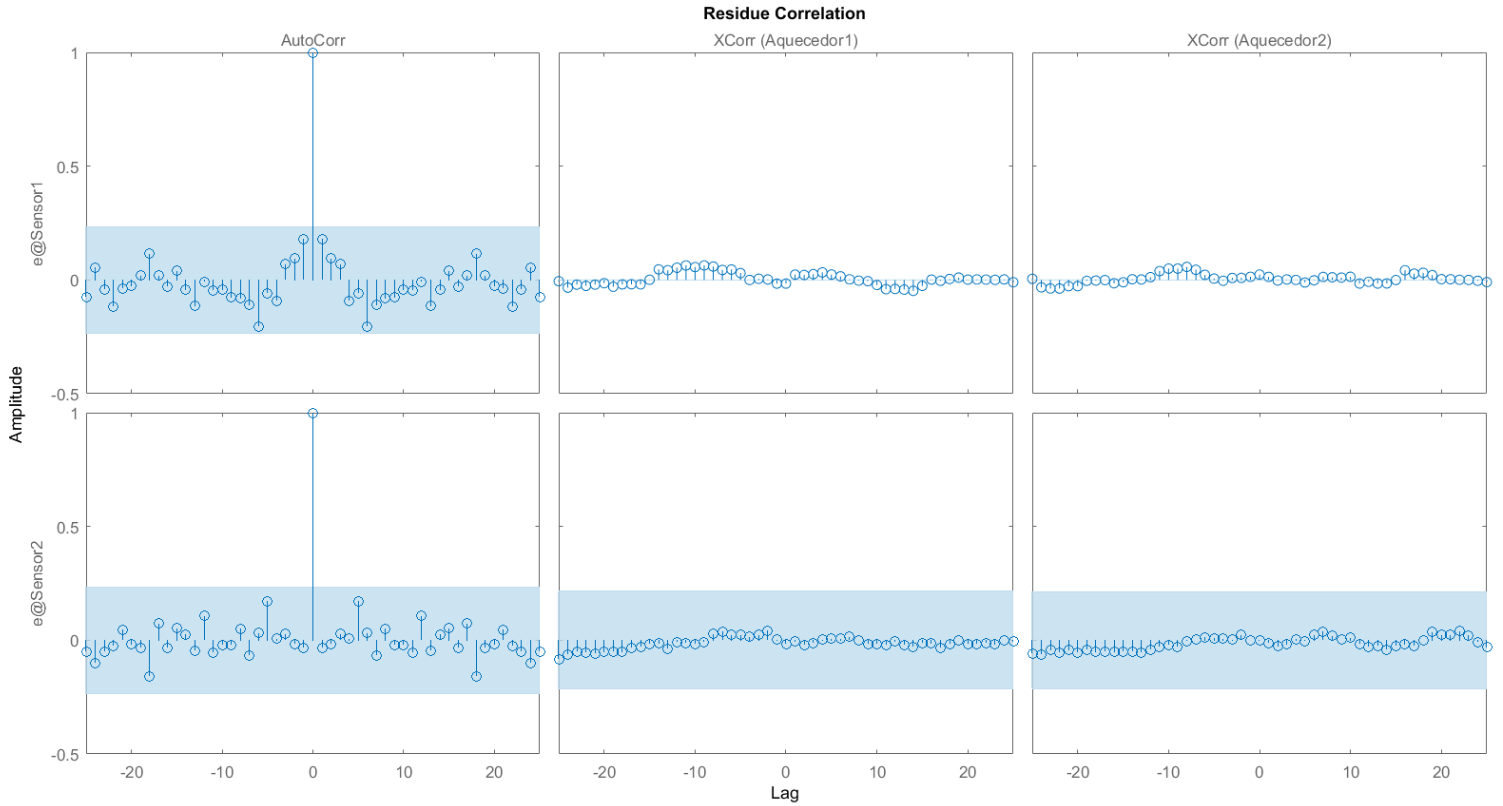
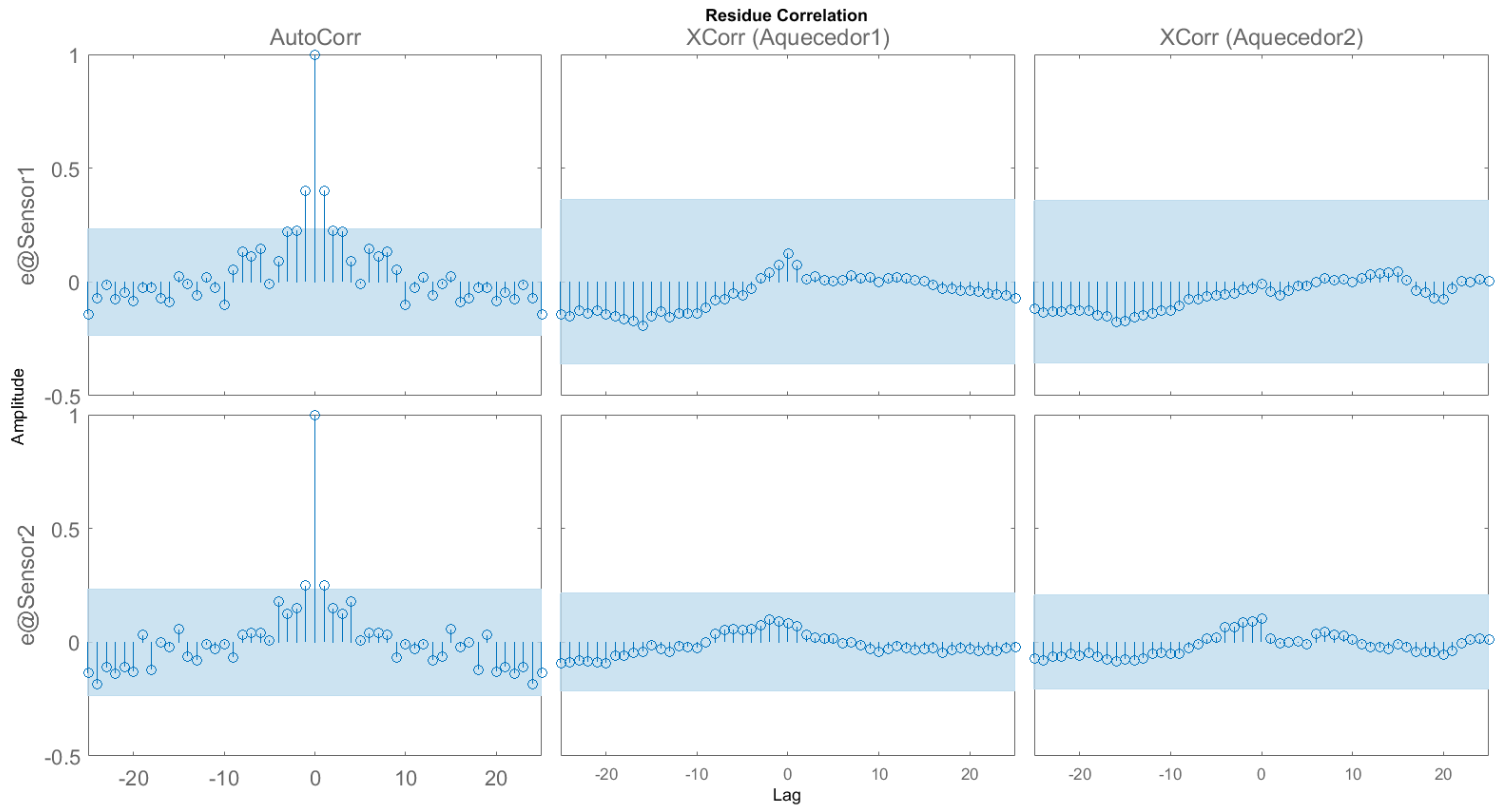
Modelos exp OE atualizados

diff --git a/2_content/metodos.tex b/2_content/metodos.tex
@@ -846,17 +846,13 @@ ordens do polinômio F ($n_f$) e de tempo morto ($n_k$). As combinações utiliz
 							$ \begin{bmatrix}	3	&	3	\\	3	&	3	\\	\end{bmatrix} $	,		
 							$ \begin{bmatrix}	4	&	4	\\	4	&	4	\\	\end{bmatrix} $		\\ \midrule
 		$n_k$			&
-							$ \begin{bmatrix}	0	&	0	\\	0	&	0	\\	\end{bmatrix} $	,		
-							$ \begin{bmatrix}	1	&	1	\\	1	&	1	\\	\end{bmatrix} $	,		
-							$ \begin{bmatrix}	2	&	2	\\	2	&	2	\\	\end{bmatrix} $	,		
-							$ \begin{bmatrix}	3	&	3	\\	3	&	3	\\	\end{bmatrix} $	,		
-							$ \begin{bmatrix}	4	&	4	\\	4	&	4	\\	\end{bmatrix} $		\\ \bottomrule
+							$ \begin{bmatrix}	1	&	1	\\	1	&	1	\\	\end{bmatrix} $		\\ \bottomrule
 	\end{tabular}
 	\caption*{Fonte: Autor}
 \end{table}
 
-A partir de todos os modelos possíveis gerados a partir das combinações dos parâmetros da \cref{tab:tclabsp-models-oe},
-selecionaram-se os 10 modelos com menor valor segundo o critério de \acrshort{aic} e a partir destes foi então
+A partir de todos os modelos gerados a partir das combinações dos parâmetros da \cref{tab:tclabsp-models-oe},
+ordenaram-se os modelos com menor valor segundo o critério de \acrshort{aic} e a partir destes foi então
 selecionado o modelo com menor valor residual.
 O gráfico mostrando a distribuição dos modelos gerados em comparação ao critério de \acrshort{aic} pode ser
 visto na \cref{fig:tclabsp-models-oe} e o modelo \acrshort{oe} escolhido, seu gráfico comparativo aos dados validação
@@ -882,26 +878,26 @@ e sua análise residual podem ser vistos na \cref{tab:tclabsp-model-oe}, na \cre
 		$Sensor_1$			&
 								$ 
 									\begin{aligned}
-										\text{Formato:}																	\\
-										y_1(t) &= \frac{B(z)}{F(z)}u(t) + e_1(t)										\\
-										\text{Onde:}																	\\
-										B1(z) &= 0.04087 + 0.03768 z^{-1} - 0.04261 z^{-2} - 0.03345 z^{-3}    			\\
-										B2(z) &= 0.00337 - 0.006235 z^{-1} + 0.01075 z^{-2} - 0.007678 z^{-3}  			\\
-										F1(z) &= 1 - 1.348 z^{-1} - 0.2736 z^{-2} + 0.7902 z^{-3} - 0.1655 z^{-4}		\\
-										F2(z) &= 1 - 1.764 z^{-1} + 0.3168 z^{-2} + 0.741 z^{-3} - 0.2937 z^{-4}   
+										\text{Formato:}														\\
+										y_1(t) &= \frac{B(z)}{F(z)}u(t) + e_1(t)							\\
+										\text{Onde:}														\\
+										B1(z) &= 0.08894 z^{-1} + 0.04175 z^{-2} - 0.09187 z^{-3}   		\\
+										B2(z) &= 0.008258 z^{-1} + 0.001846 z^{-2} - 0.01011 z^{-3} 		\\
+										F1(z) &= 1 - 0.912 z^{-1} - 0.5633 z^{-2} + 0.5215 z^{-3}  			\\
+										F2(z) &= 1 - 0.9537 z^{-1} - 0.9783 z^{-2} + 0.932 z^{-3}    
 									\end{aligned}
 								$	
 							\\ \midrule
 		$Sensor_2$			&
 								$ 
 									\begin{aligned}
-										\text{Formato:}																	\\
-										y_2(t) &= \frac{B(z)}{F(z)}u(t) + e_2(t)										\\
-										\text{Onde:}																	\\
-										B1(z) &= 0.003972 - 0.009146 z^{-1} + 0.01457 z^{-2} - 0.009311 z^{-3}    		\\
-										B2(z) &= 0.02613 + 0.04639 z^{-1} + 0.03748 z^{-2} + 0.02104 z^{-3}       		\\
-										F1(z) &= 1 - 2.303 z^{-1} + 1.399 z^{-2} + 0.1446 z^{-3} - 0.2406 z^{-4}    	\\
-										F2(z) &= 1 + 0.01233 z^{-1} - 0.5849 z^{-2} - 0.1919 z^{-3} + 0.03233 z^{-4}  	
+										\text{Formato:}														\\
+										y_2(t) &= \frac{B(z)}{F(z)}u(t) + e_2(t)							\\
+										\text{Onde:}														\\
+										B1(z) &= -0.005385 z^{-1} + 0.02174 z^{-2} - 0.01629 z^{-3}    		\\
+										B2(z) &= 0.06252 z^{-1} - 0.08437 z^{-2} + 0.0602 z^{-3}			\\
+										F1(z) &= 1 - 2.394 z^{-1} + 1.824 z^{-2} - 0.4304 z^{-3} 			\\
+										F2(z) &= 1 - 2.217 z^{-1} + 2.138 z^{-2} - 0.8374 z^{-3}  	
 									\end{aligned}
 								$
 							\\ \bottomrule
